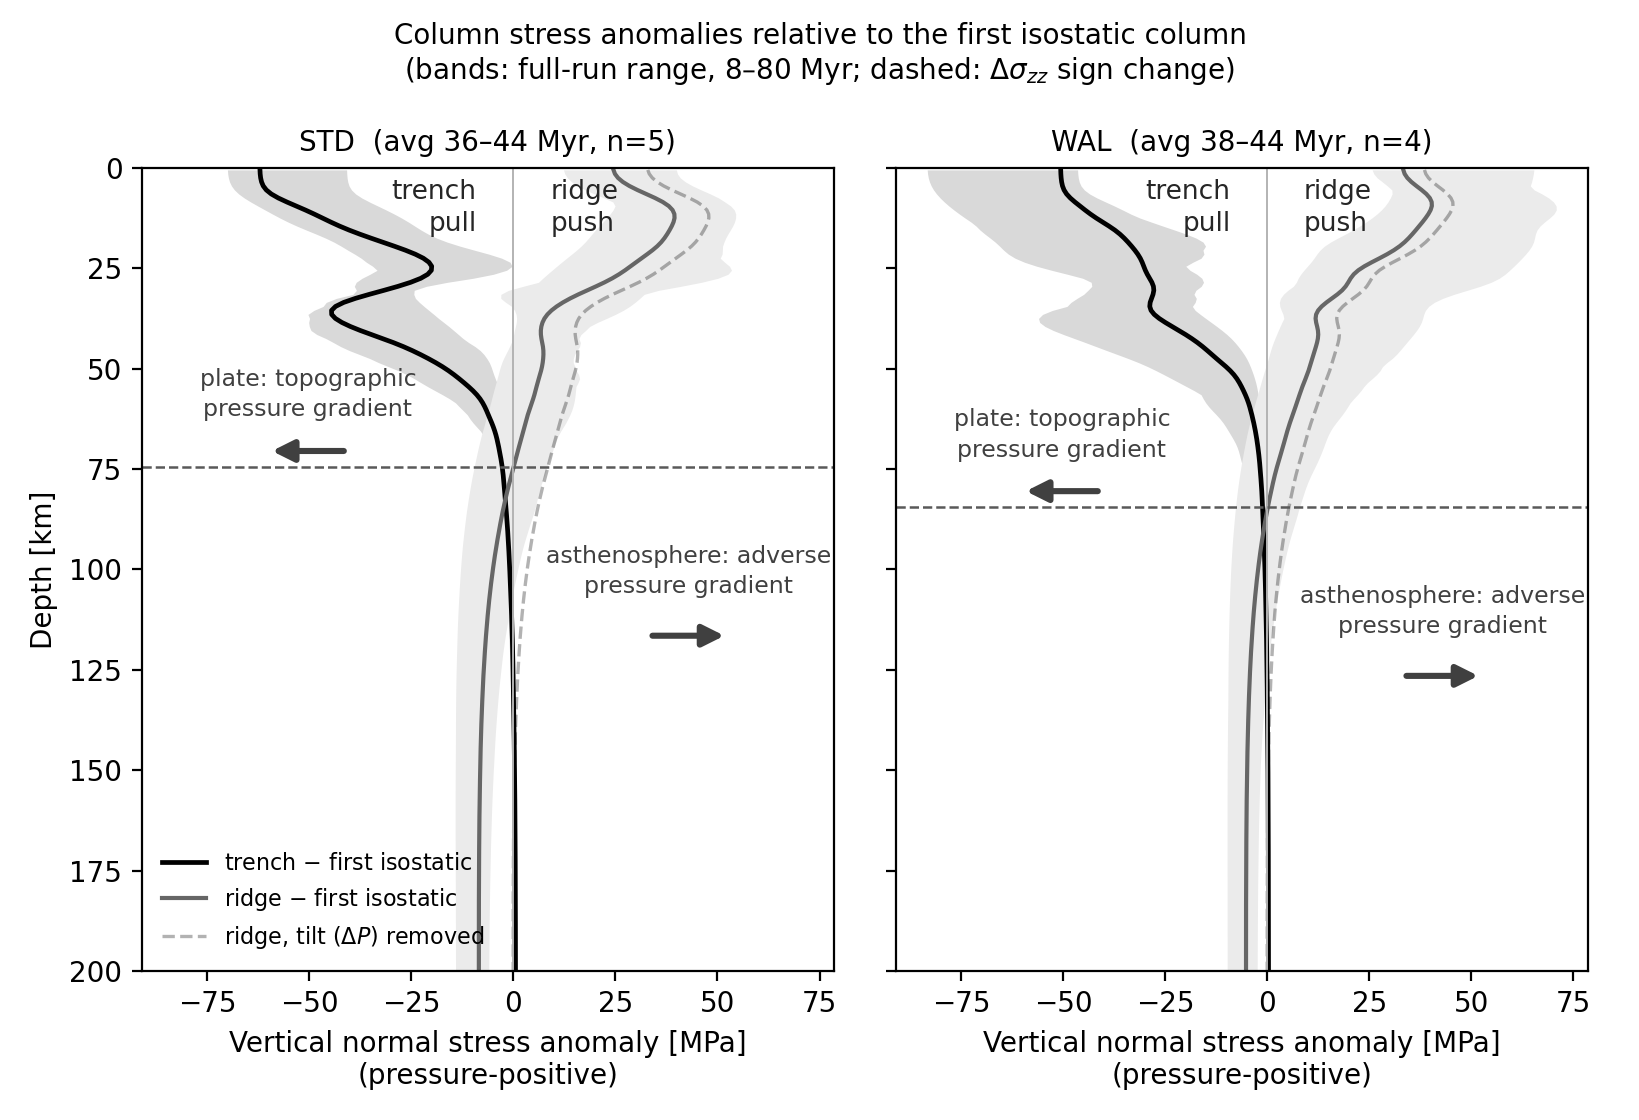
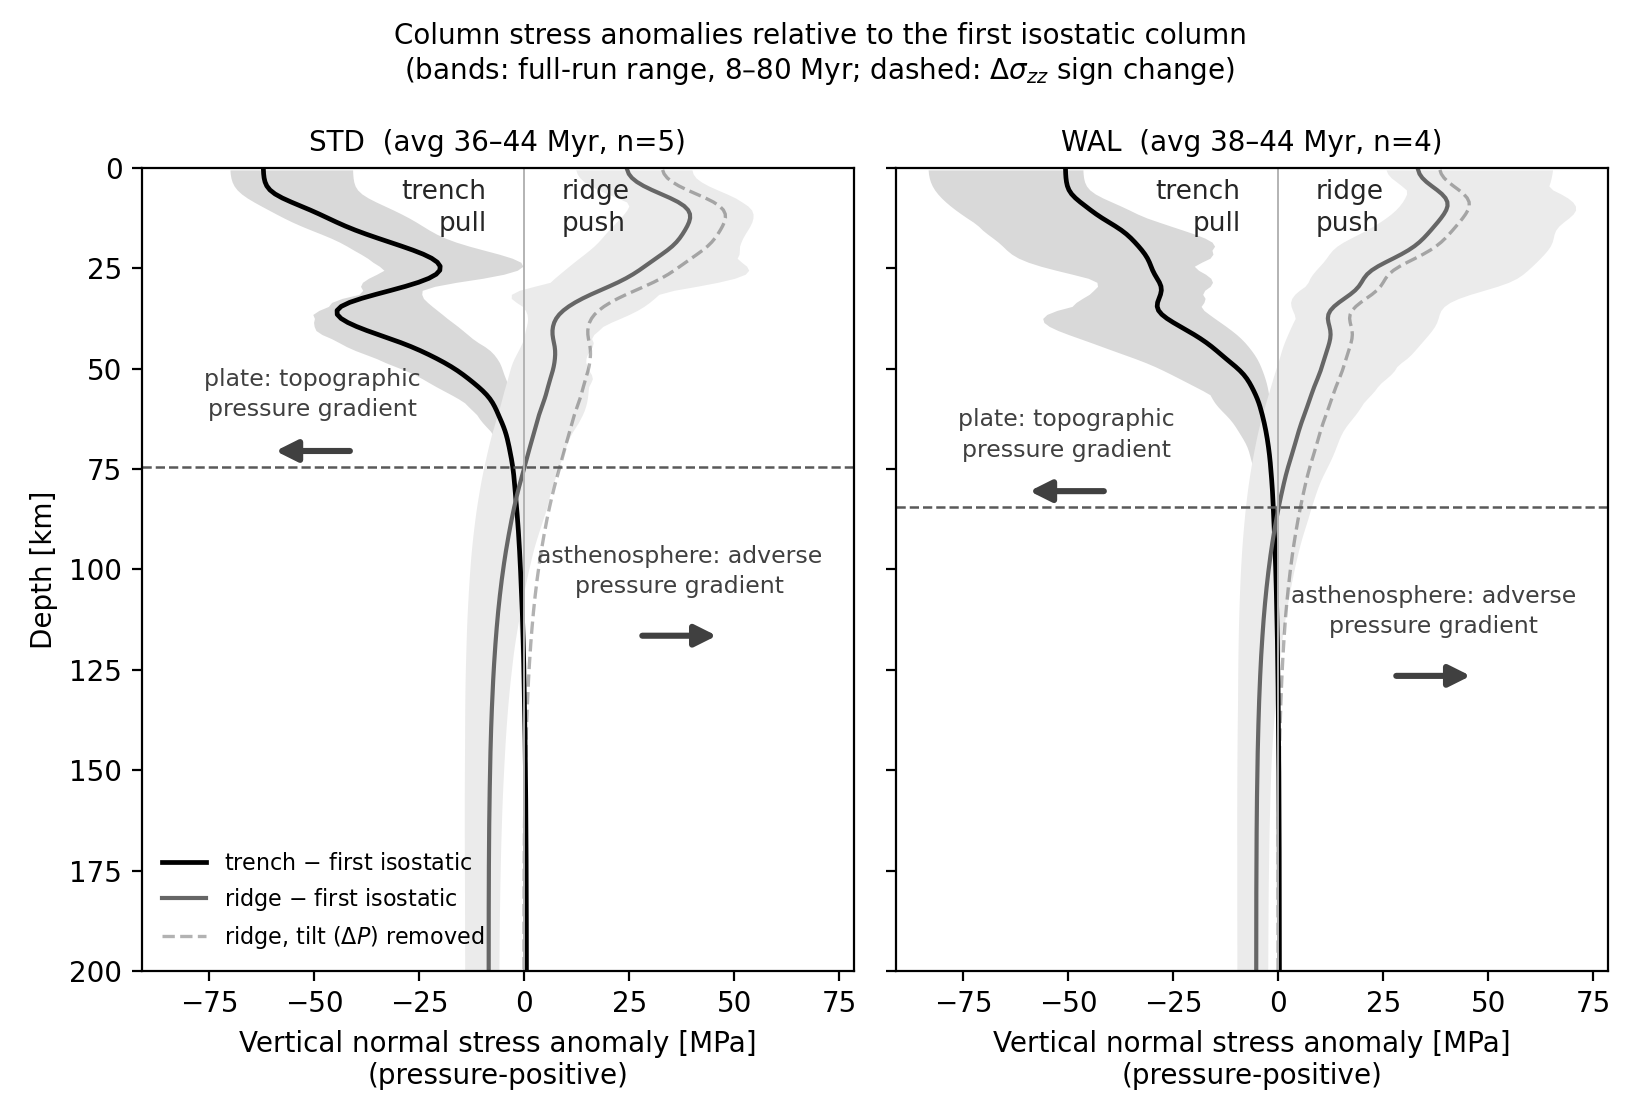
fig_column_anomalies: ease the asthenosphere label back to 0.755
0.79 overshot; 0.755 still clears the zero axis.

diff --git a/scripts/fig_column_anomalies.py b/scripts/fig_column_anomalies.py
@@ -96,7 +96,7 @@ def main():
         # its force-direction arrow beneath. Trench-ward is left.
         for xc, z_lab, z_arr, txt, head in (
                 (0.24, z_x - 18, z_x - 4, 'plate: topographic\npressure gradient', -1),
-                (0.79, z_x + 26, z_x + 42, 'asthenosphere: adverse\npressure gradient', +1)):
+                (0.755, z_x + 26, z_x + 42, 'asthenosphere: adverse\npressure gradient', +1)):
             ax.text(xc, z_lab, txt, transform=ax.get_yaxis_transform(),
                     ha='center', va='center', fontsize=8.5, color='0.25',
                     linespacing=1.4)
